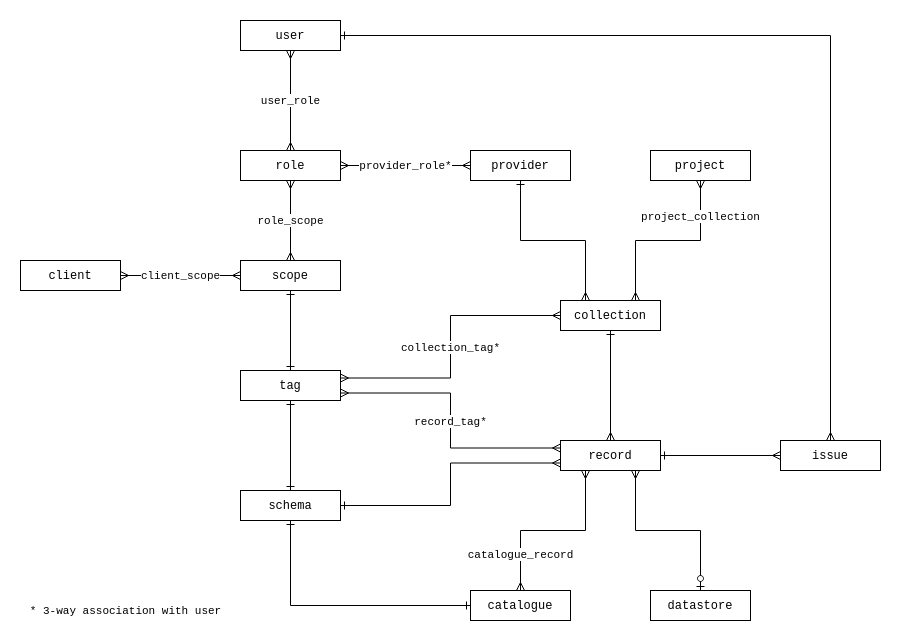
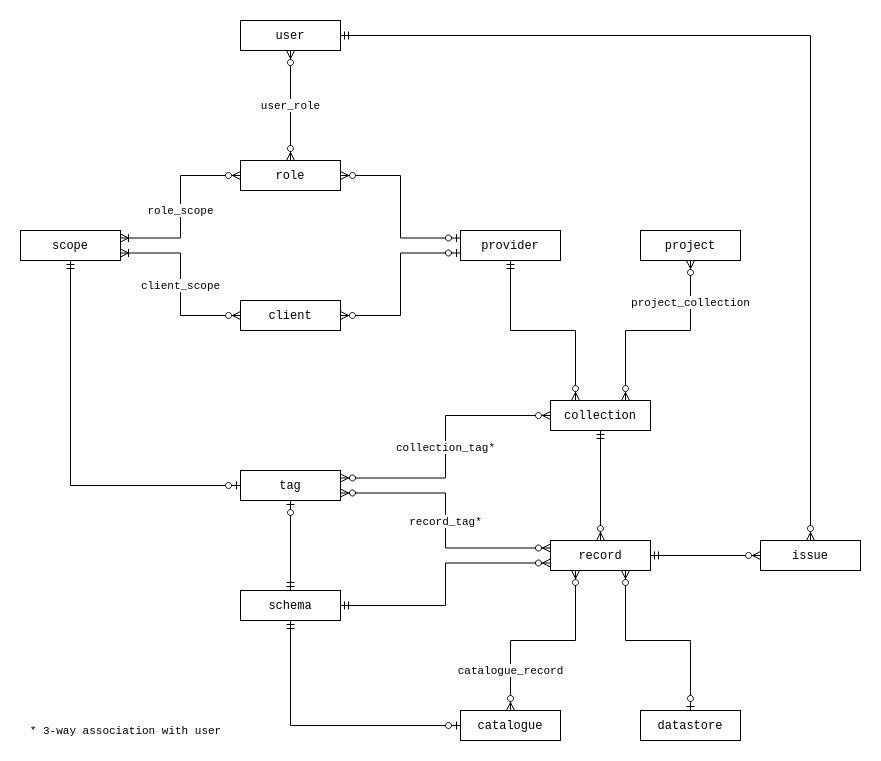
Revise data model
Define role and client similarly: role represents a set of permissions associated with a user, client a set of permissions associated with an application. Both may optionally be linked with a provider, which limits the applicability of any attached provider, collection and record scopes. Aligning role and client in this way makes it clearer how the effective set of permissions for a user logged in to a client is determined.

diff --git a/odp/db/models/role.py b/odp/db/models/role.py
@@ -1,30 +1,36 @@
-from sqlalchemy import Column, String, Enum
+from sqlalchemy import Column, String, ForeignKey
 from sqlalchemy.ext.associationproxy import association_proxy
 from sqlalchemy.orm import relationship
 
 from odp.db import Base
 from odp.db.models.role_scope import RoleScope
-from odp.db.models.types import RoleType
+from odp.db.models.user_role import UserRole
 
 
 class Role(Base):
     """A role is a configuration object that defines a set of
-    permissions, represented by the associated scopes.
+    permissions - represented by the associated scopes - that
+    may be granted to a user.
 
-    The role type determines whether those scopes may be applied
-    platform-wide, or only within the context of a client, project
-    or provider.
+    If a role is linked to a provider, then any 'provider',
+    'collection' and 'record' scopes apply only to those
+    entities that are associated with that provider.
     """
 
     __tablename__ = 'role'
 
-    id = Column(String, unique=True, primary_key=True)
-    type = Column(Enum(RoleType), primary_key=True)
-    name = Column(String, unique=True, nullable=False)
+    id = Column(String, primary_key=True)
+
+    provider_id = Column(String, ForeignKey('provider.id', ondelete='CASCADE'))
+    provider = relationship('Provider')
 
     # many-to-many relationship between role and scope
     role_scopes = relationship('RoleScope', back_populates='role', cascade='all, delete-orphan', passive_deletes=True)
     scopes = association_proxy('role_scopes', 'scope', creator=lambda s: RoleScope(scope=s))
 
+    # many-to-many relationship between role and user
+    role_users = relationship('UserRole', back_populates='role', cascade='all, delete-orphan', passive_deletes=True)
+    users = association_proxy('role_users', 'user', creator=lambda u: UserRole(user=u))
+
     def __repr__(self):
-        return self._repr('id', 'type', 'name')
+        return self._repr('id', 'provider')

diff --git a/odp/db/models/client.py b/odp/db/models/client.py
@@ -1,4 +1,4 @@
-from sqlalchemy import Column, String
+from sqlalchemy import Column, String, ForeignKey
 from sqlalchemy.ext.associationproxy import association_proxy
 from sqlalchemy.orm import relationship
 
@@ -7,10 +7,12 @@ from odp.db.models.client_scope import ClientScope
 
 
 class Client(Base):
-    """A client application.
+    """Client application config. The associated scopes
+    represent the set of permissions granted to the client.
 
-    The many-to-many client-scope relation represents the
-    set of OAuth2 scopes that a client may request.
+    If a client is linked to a provider, then any 'provider',
+    'collection' and 'record' scopes apply only to those
+    entities that are associated with that provider.
     """
 
     __tablename__ = 'client'
@@ -18,9 +20,12 @@ class Client(Base):
     id = Column(String, primary_key=True)
     name = Column(String, unique=True, nullable=False)
 
+    provider_id = Column(String, ForeignKey('provider.id', ondelete='CASCADE'))
+    provider = relationship('Provider')
+
     # many-to-many relationship between client and scope
     client_scopes = relationship('ClientScope', back_populates='client', cascade='all, delete-orphan', passive_deletes=True)
     scopes = association_proxy('client_scopes', 'scope', creator=lambda s: ClientScope(scope=s))
 
     def __repr__(self):
-        return self._repr('id', 'name')
+        return self._repr('id', 'name', 'provider')

diff --git a/odp/db/models/role_scope.py b/odp/db/models/role_scope.py
@@ -1,8 +1,7 @@
-from sqlalchemy import Column, ForeignKey, String, Enum, ForeignKeyConstraint
+from sqlalchemy import Column, ForeignKey, String
 from sqlalchemy.orm import relationship
 
 from odp.db import Base
-from odp.db.models.types import RoleType
 
 
 class RoleScope(Base):
@@ -10,15 +9,7 @@ class RoleScope(Base):
 
     __tablename__ = 'role_scope'
 
-    __table_args__ = (
-        ForeignKeyConstraint(
-            ('role_id', 'role_type'), ('role.id', 'role.type'),
-            name='role_scope_role_fkey', ondelete='CASCADE',
-        ),
-    )
-
-    role_id = Column(String, primary_key=True)
-    role_type = Column(Enum(RoleType), primary_key=True)
+    role_id = Column(String, ForeignKey('role.id', ondelete='CASCADE'), primary_key=True)
     scope_id = Column(String, ForeignKey('scope.id', ondelete='CASCADE'), primary_key=True)
 
     role = relationship('Role', back_populates='role_scopes')

diff --git a/odp/db/models/__init__.py b/odp/db/models/__init__.py
@@ -1,16 +1,12 @@
 from .catalogue_record import CatalogueRecord
 from .client import Client
 from .client_scope import ClientScope
-from .client_user import ClientUser
 from .collection import Collection
 from .datacite_record import DataciteRecord
 from .oauth2_token import OAuth2Token
-from .platform_user import PlatformUser
 from .project import Project
 from .project_collection import ProjectCollection
-from .project_user import ProjectUser
 from .provider import Provider
-from .provider_user import ProviderUser
 from .record import Record
 from .record_tag import RecordTag
 from .role import Role
@@ -18,5 +14,6 @@ from .role_scope import RoleScope
 from .schema import Schema
 from .scope import Scope
 from .tag import Tag
-from .types import RoleType, SchemaType
+from .types import SchemaType
 from .user import User
+from .user_role import UserRole

diff --git a/odp/db/models/user.py b/odp/db/models/user.py
@@ -1,8 +1,11 @@
 import uuid
 
 from sqlalchemy import Column, String, Boolean
+from sqlalchemy.ext.associationproxy import association_proxy
+from sqlalchemy.orm import relationship
 
 from odp.db import Base
+from odp.db.models.user_role import UserRole
 
 
 class User(Base):
@@ -17,6 +20,10 @@ class User(Base):
     verified = Column(Boolean, nullable=False)
     name = Column(String)
     picture = Column(String)
+
+    # many-to-many relationship between user and role
+    user_roles = relationship('UserRole', back_populates='user', cascade='all, delete-orphan', passive_deletes=True)
+    roles = association_proxy('user_roles', 'role', creator=lambda r: UserRole(role=r))
 
     def __repr__(self):
         return self._repr('id', 'email', 'name', 'active', 'verified')

diff --git a/odp/db/models/provider.py b/odp/db/models/provider.py
@@ -20,5 +20,11 @@ class Provider(Base):
     # one-to-many relationship with collection
     collections = relationship('Collection', back_populates='provider', cascade='all, delete-orphan', passive_deletes=True)
 
+    # zero-or-one-to-many relationship with role
+    roles = relationship('Role', cascade='all, delete-orphan', passive_deletes=True)
+
+    # zero-or-one-to-many relationship with client
+    clients = relationship('Client', cascade='all, delete-orphan', passive_deletes=True)
+
     def __repr__(self):
         return self._repr('id', 'name')

diff --git a/odp/db/models/user_role.py b/odp/db/models/user_role.py
@@ -1,0 +1,16 @@
+from sqlalchemy import Column, String, ForeignKey
+from sqlalchemy.orm import relationship
+
+from odp.db import Base
+
+
+class UserRole(Base):
+    """A user-role assignment."""
+
+    __tablename__ = 'user_role'
+
+    user_id = Column(String, ForeignKey('user.id', ondelete='CASCADE'), primary_key=True)
+    role_id = Column(String, ForeignKey('role.id', ondelete='CASCADE'), primary_key=True)
+
+    user = relationship('User', back_populates='user_roles')
+    role = relationship('Role', back_populates='role_users')

diff --git a/odp/db/models/client_scope.py b/odp/db/models/client_scope.py
@@ -5,7 +5,9 @@ from odp.db import Base
 
 
 class ClientScope(Base):
-    """Model of a many-to-many client-scope association."""
+    """Model of a many-to-many client-scope association,
+    representing the set of OAuth2 scopes that a client
+    may request."""
 
     __tablename__ = 'client_scope'
 

diff --git a/odp/db/models/types.py b/odp/db/models/types.py
@@ -1,13 +1,6 @@
 from enum import Enum
 
 
-class RoleType(str, Enum):
-    platform = 'platform'
-    client = 'client'
-    project = 'project'
-    provider = 'provider'
-
-
 class SchemaType(str, Enum):
     catalogue = 'catalogue'
     metadata = 'metadata'
